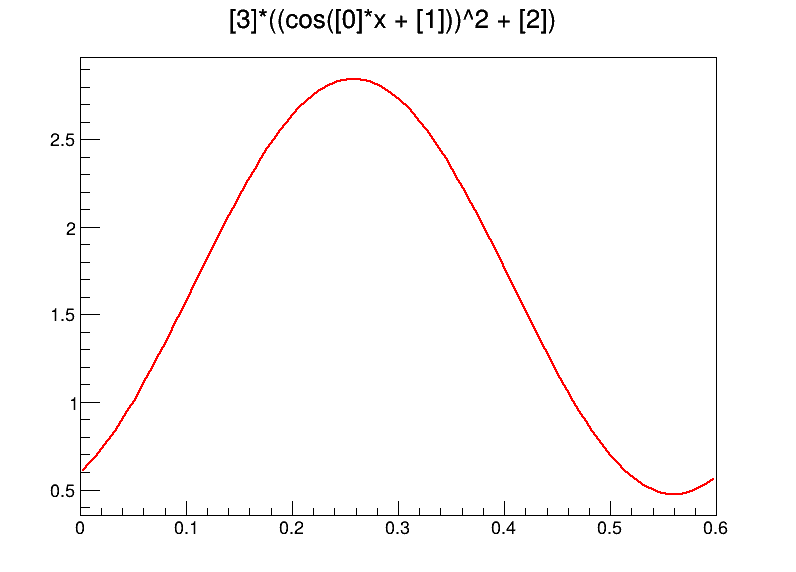
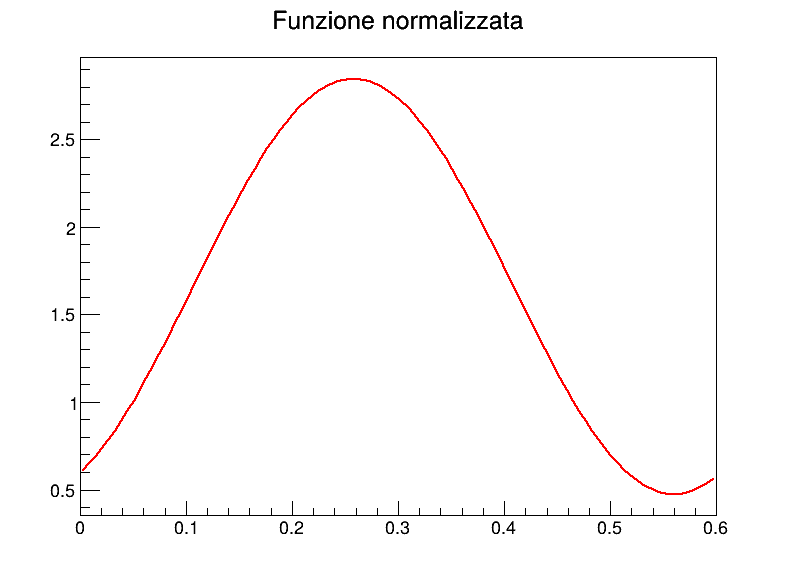
Implementazione punto 4 scheda 1

Changed region(s): [[0.2714, 0.0, 0.6935, 0.0594]]

diff --git a/lab1/root_macro.C b/lab1/root_macro.C
@@ -43,13 +43,14 @@ class macro {
     return graph;
   }
 
-  TH1F* random_generation_hist(int n, int b) {
+  TH1F* random_generation_hist(int n, int b, TF1* f = nullptr) {
+    if (!f) f = cos_function();
     std::vector<double> vx;
     int entries = 0;
     for (int i = 0; i < n; ++i) {
       double x           = gRandom->Uniform(0., 0.6);
       double y           = gRandom->Uniform(0., 1.2);
-      double upper_bound = cos_function()->Eval(x);
+      double upper_bound = f->Eval(x);
       if (y <= upper_bound) {
         vx.push_back(x);
         entries += 1;
@@ -96,6 +97,7 @@ class macro {
     hist1->Draw("HIST");
     c4->SaveAs("istrogramma_norm.png");
     TCanvas* c5 = new TCanvas("c5", "Coseno scalato", 800, 600);
+    cosScaled->SetTitle("Funzione normalizzata");
     cosScaled->Draw();
     c5->SaveAs("cos_scalato.png");
   }
@@ -161,90 +163,135 @@ class macro {
     }
   }
 
-void fit() {
-  TF1* cos = new TF1("Funzione coseno", "[3]*((cos([0]*x + [1]))^2 + [2])", 0., 0.6);
-  cos->SetParameters(k_, phi_, b_);
-  TH1F *hist = random_generation_hist(10000, 50);
+  void gaussian_parameters(int n_generazioni = 100, int n_eventi = 10000, int bins = 50) {
+    std::vector<TH1F*> hist_list;
+    TF1* cos_g = new TF1("Funzione coseno", "[3]*((cos([0]*x + [1]))^2 + [2])", 0., 0.6);
+    double cosInt = cos_g->Integral(0., 0.6);
+    TF1* cosScaled_g = (TF1*)(cos_g->Clone("cosScaled_g"));
+    cosScaled_g->SetParameter(3, 1 / cosInt);
 
-  // Fit con parametri liberi
-  auto freepar = hist->Fit(cos, "RSQ");
+    for (int i{0}; i < n_generazioni; ++i) {
+    double k = gRandom->Gaus(k_, k_*0.01);
+    double phi = gRandom->Gaus(phi_, phi_*0.05);
+    double b = gRandom->Gaus(b_, b_*0.01);
+    
+    cosScaled_g->SetParameters(k, phi, b);
+    hist_list.push_back(random_generation_hist(n_eventi, bins, cosScaled_g));
+    }
 
-  // Fit con parametri fissati
-  TF1* cos1 = new TF1("Funzione coseno", "[3]*((cos([0]*x + [1]))^2 + [2])", 0., 0.6);
-  cos1->FixParameter(0, k_);
-  cos1->FixParameter(1, phi_);
-  cos1->FixParameter(2, b_);
-  auto fixpar = hist->Fit(cos1, "RSQ");
+    std::vector<double> media(bins, 0.0);
+    std::vector<double> sigma(bins, 0.0);
 
-  int statusfree = freepar->Status();
-  int statusfix  = fixpar->Status();
+    for (int i = 0; i < bins; ++i) {
+      for (auto& h : hist_list)
+        media[i] += h->GetBinContent(i + 1);
+      media[i] /= n_generazioni;
+    }
 
-  std::ofstream ofs("Fit.md");
-  if(!ofs.is_open()){
-    std::cout << "Errore apertura file\n";
-    return;
+    for (int i = 0; i < bins; ++i) {
+      for (auto& h : hist_list)
+        sigma[i] += pow(h->GetBinContent(i + 1) - media[i], 2);
+      sigma[i] = sqrt(sigma[i] / (n_generazioni - 1));
+    }
+
+    TGraphErrors* gSigma = new TGraphErrors(bins);
+    for (int i = 0; i < bins; ++i) {
+      gSigma->SetPoint(i, i, media[i]);
+      gSigma->SetPointError(i, 0., sigma[i]); // Argomenti: pos in lista, x, y
+    }
+    
+    TCanvas* c6 = new TCanvas("c_sigma_g", "Incertezze per bin con parametri aleatori", 800, 600);
+    gSigma->SetTitle("Fluttuazioni bin; Bin; Deviazione standard");
+    gSigma->SetMarkerStyle(20);
+    gSigma->Draw("AP");
+    c6->SaveAs("sigma_g.png");
   }
 
-  ofs << "# Risultati del Fit\n\n";
+  void fit() {
+    TF1* cos = new TF1("Funzione coseno", "[3]*((cos([0]*x + [1]))^2 + [2])", 0., 0.6);
+    cos->SetParameters(k_, phi_, b_);
+    TH1F *hist = random_generation_hist(10000, 50);
 
-  ofs << "## Fit con parametri liberi\n\n";
-  ofs << "- **Status:** " << statusfree << "\n";
-  ofs << "- **Funzione:** `" << cos->GetName() << "`\n";
+    // Fit con parametri liberi
+    auto freepar = hist->Fit(cos, "RSQ");
 
-  double chi2_free = cos->GetChisquare();
-  int ndf_free     = cos->GetNDF();
-  ofs << "- **Chi² / NDF:** " << chi2_free << " / " << ndf_free << "\n\n";
+    // Fit con parametri fissati
+    TF1* cos1 = new TF1("Funzione coseno", "[3]*((cos([0]*x + [1]))^2 + [2])", 0., 0.6);
+    cos1->FixParameter(0, k_);
+    cos1->FixParameter(1, phi_);
+    cos1->FixParameter(2, b_);
+    auto fixpar = hist->Fit(cos1, "RSQ");
 
-  int npar_free = cos->GetNpar();
-  ofs << "| Index | Name | Value | Error |\n";
-  ofs << "|:------:|:------|:------:|:------:|\n";
-  for (int i = 0; i < npar_free; ++i) {
-    const char* pname = cos->GetParName(i) ? cos->GetParName(i) : "";
-    ofs << "| " << i 
-        << " | " << pname 
-        << " | " << cos->GetParameter(i) 
-        << " | " << cos->GetParError(i) 
-        << " |\n";
+    int statusfree = freepar->Status();
+    int statusfix  = fixpar->Status();
+
+    std::ofstream ofs("Fit.md");
+    if(!ofs.is_open()){
+      std::cout << "Errore apertura file\n";
+      return;
+    }
+
+    ofs << "# Risultati del Fit\n\n";
+
+    ofs << "## Fit con parametri liberi\n\n";
+    ofs << "- **Status:** " << statusfree << "\n";
+    ofs << "- **Funzione:** `" << cos->GetName() << "`\n";
+
+    double chi2_free = cos->GetChisquare();
+    int ndf_free     = cos->GetNDF();
+    ofs << "- **Chi² / NDF:** " << chi2_free << " / " << ndf_free << "\n\n";
+
+    int npar_free = cos->GetNpar();
+    ofs << "| Index | Name | Value | Error |\n";
+    ofs << "|:------:|:------|:------:|:------:|\n";
+    for (int i = 0; i < npar_free; ++i) {
+      const char* pname = cos->GetParName(i) ? cos->GetParName(i) : "";
+      ofs << "| " << i 
+          << " | " << pname 
+          << " | " << cos->GetParameter(i) 
+          << " | " << cos->GetParError(i) 
+          << " |\n";
+    }
+
+    ofs << "\n---\n\n";
+    ofs << "## Fit con parametri fissati\n\n";
+    ofs << "- **Status:** " << statusfix << "\n";
+    ofs << "- **Funzione:** `" << cos1->GetName() << "`\n";
+
+    double chi2_fix = cos1->GetChisquare();
+    int ndf_fix     = cos1->GetNDF();
+    ofs << "- **Chi² / NDF:** " << chi2_fix << " / " << ndf_fix << "\n\n";
+
+    int npar_fix = cos1->GetNpar();
+    ofs << "| Index | Name | Value | Error |\n";
+    ofs << "|:------:|:------|:------:|:------:|\n";
+    for (int i = 0; i < npar_fix; ++i) {
+      const char* pname = cos1->GetParName(i) ? cos1->GetParName(i) : "";
+      ofs << "| " << i 
+          << " | " << pname 
+          << " | " << cos1->GetParameter(i) 
+          << " | " << cos1->GetParError(i) 
+          << " |\n";
+    }
+
+    ofs.close();
   }
 
-  ofs << "\n---\n\n";
-  ofs << "## Fit con parametri fissati\n\n";
-  ofs << "- **Status:** " << statusfix << "\n";
-  ofs << "- **Funzione:** `" << cos1->GetName() << "`\n";
 
-  double chi2_fix = cos1->GetChisquare();
-  int ndf_fix     = cos1->GetNDF();
-  ofs << "- **Chi² / NDF:** " << chi2_fix << " / " << ndf_fix << "\n\n";
+    void draw() {
+      TCanvas* c1 = new TCanvas("c1", "Funzione coseno", 800, 600);
+      cos_function()->SetTitle("Funzione");
+      cos_function()->Draw();
+      c1->SaveAs("grafico.png");
 
-  int npar_fix = cos1->GetNpar();
-  ofs << "| Index | Name | Value | Error |\n";
-  ofs << "|:------:|:------|:------:|:------:|\n";
-  for (int i = 0; i < npar_fix; ++i) {
-    const char* pname = cos1->GetParName(i) ? cos1->GetParName(i) : "";
-    ofs << "| " << i 
-        << " | " << pname 
-        << " | " << cos1->GetParameter(i) 
-        << " | " << cos1->GetParError(i) 
-        << " |\n";
-  }
+      TCanvas* c2 = new TCanvas("c2", "Estrazione punti", 800, 600);
+      random_generation_graph(10000)->Draw("AP");
+      c2->SaveAs("punti.png");
 
-  ofs.close();
-}
-
-
-  void draw() {
-    TCanvas* c1 = new TCanvas("c1", "Funzione coseno", 800, 600);
-    cos_function()->Draw();
-    c1->SaveAs("grafico.png");
-
-    TCanvas* c2 = new TCanvas("c2", "Estrazione punti", 800, 600);
-    random_generation_graph(10000)->Draw("AP");
-    c2->SaveAs("punti.png");
-
-    TCanvas* c3 = new TCanvas("c3", "Istogramma", 800, 600);
-    random_generation_hist(10000, 50)->Draw();
-    // cos_function()->Draw();
-    c3->SaveAs("istogramma.png");
-  }
+      TCanvas* c3 = new TCanvas("c3", "Istogramma", 800, 600);
+      random_generation_hist(10000, 50)->Draw();
+      // cos_function()->Draw();
+      c3->SaveAs("istogramma.png");
+    }
 };
 

diff --git a/lab1/root_main.cpp b/lab1/root_main.cpp
@@ -5,8 +5,9 @@ int main(int arcg, char** argv) {
     macro test;
     test.draw();
     test.accordo(10000, 100);
-    // test.rigenerazione_incertezze();
+    test.rigenerazione_incertezze();
     // test.binSmearing();
+    test.gaussian_parameters();
     test.fit();
     
     return 0;

diff --git a/lab1/Fit.md b/lab1/Fit.md
@@ -4,14 +4,14 @@
 
 - **Status:** 0
 - **Funzione:** `Funzione coseno`
-- **Chi² / NDF:** 72.1764 / 46
+- **Chi² / NDF:** 57.8604 / 46
 
 | Index | Name | Value | Error |
 |:------:|:------|:------:|:------:|
-| 0 | p0 | 5.14232 | 0.093155 |
-| 1 | p1 | 1.79926 | 0.0276706 |
-| 2 | p2 | 0.175307 | 0.0149997 |
-| 3 | p3 | 170.92 | 3.95342 |
+| 0 | p0 | 5.29729 | 0.087258 |
+| 1 | p1 | 1.76087 | 0.0272912 |
+| 2 | p2 | 0.179112 | 0.0140464 |
+| 3 | p3 | 172.187 | 3.98094 |
 
 ---
 
@@ -19,11 +19,11 @@
 
 - **Status:** 0
 - **Funzione:** `Funzione coseno`
-- **Chi² / NDF:** 76.8613 / 49
+- **Chi² / NDF:** 64.3964 / 49
 
 | Index | Name | Value | Error |
 |:------:|:------|:------:|:------:|
 | 0 | p0 | 5.2 | 0 |
 | 1 | p1 | 1.8 | 0 |
 | 2 | p2 | 0.2 | 0 |
-| 3 | p3 | 166.06 | 2.17334 |
+| 3 | p3 | 164.821 | 2.16522 |
